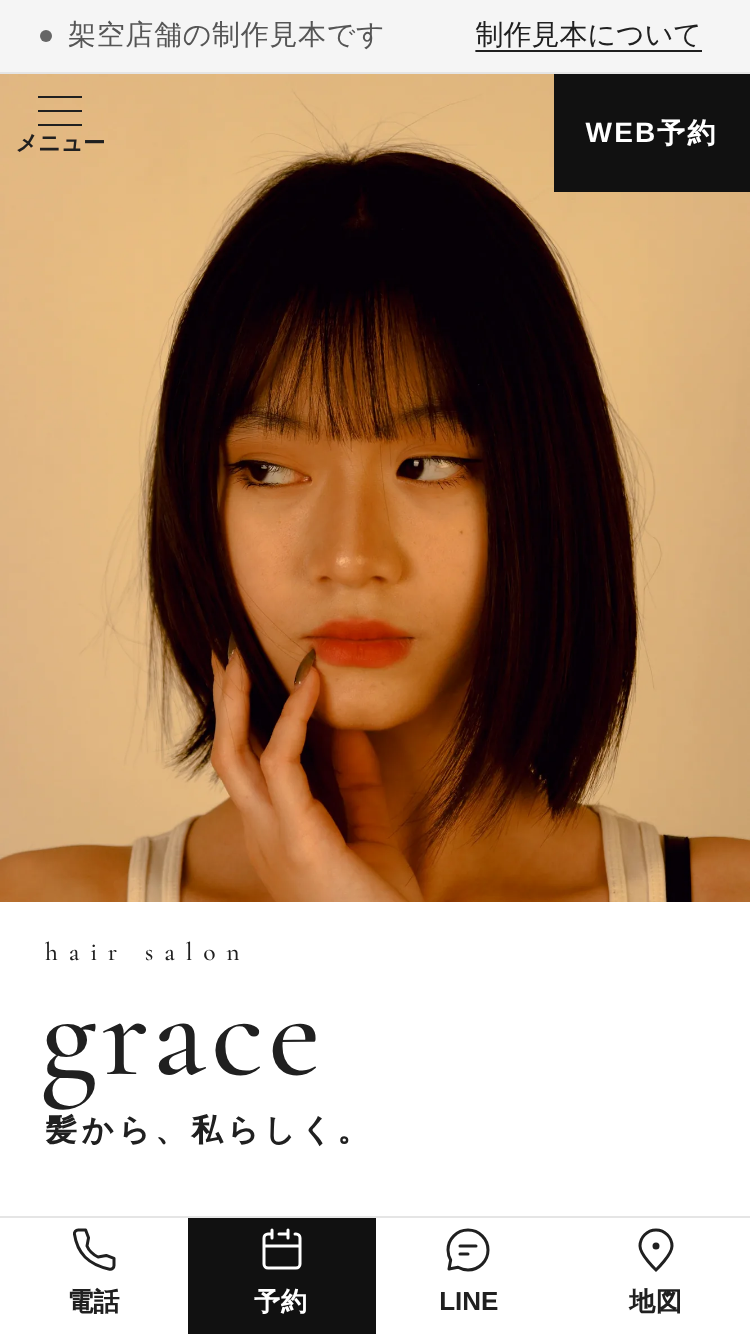
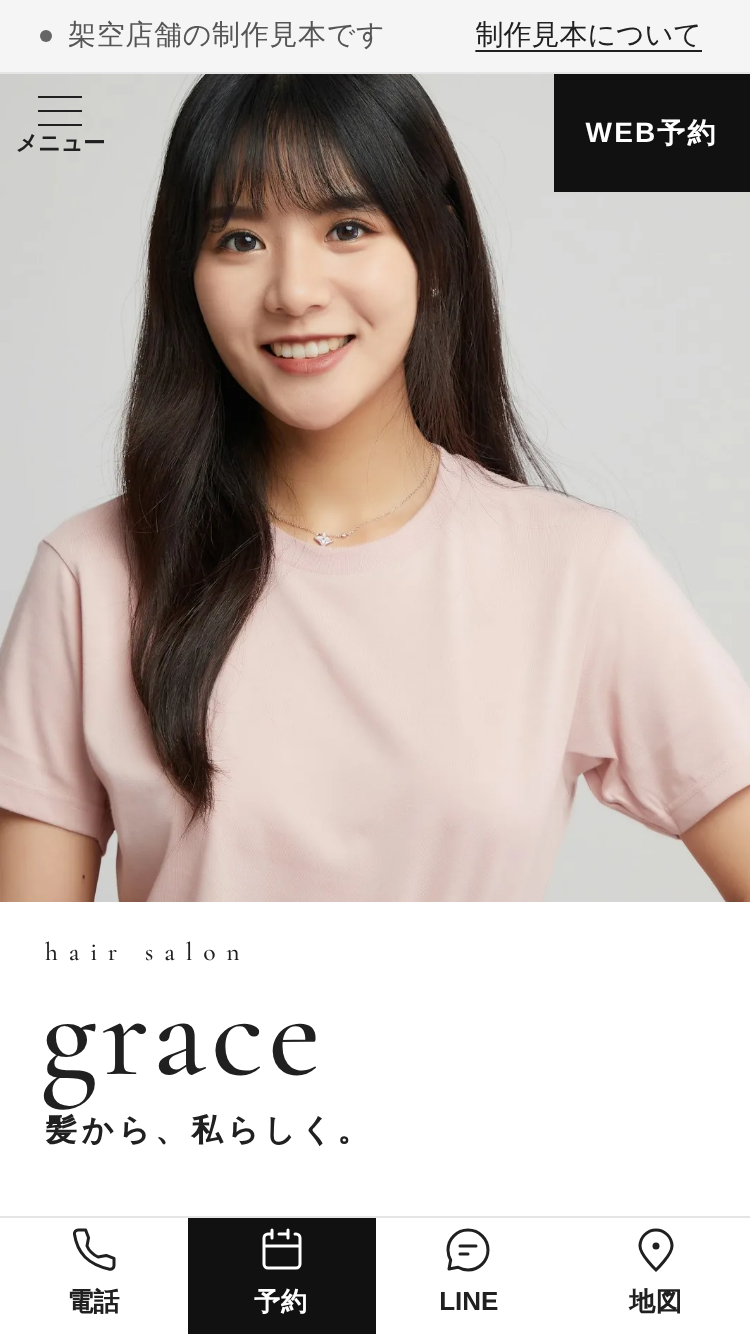
モデル写真を東アジア系女性のロングヘアのみに統一
- ショート・ボブ・ミディアム・メンズ・和装のまとめ髪の写真を外し、ロングヘアの Unsplash 写真（v5）に差し替え
- ヒーロー（PC：ストレートロング／スマホ：前髪ありロング）、PICK UP STYLE（後ろ姿ロング・グラデーションカラー・ブラウンロング）を更新
- カタログのカテゴリをストレート／ウェーブ・カール／レイヤー／ヘアカラー／ヘアアレンジに変更
- PCのヒーロー上のヘッダーに薄い白のグラデーションを敷き、髪に重なるナビを読みやすく
- CREDITS.md・README・CLAUDE.md・OGP画像・販促用スクリーンショットを更新

Claude-Session: https://claude.ai/code/session_01U6BrpBVGjCZbtm2Y6rXKjn

diff --git a/index.html b/index.html
@@ -6,8 +6,8 @@
     <meta name="description" content="美容室ホームページの制作見本です（架空店舗 hair salon grace）。モデル写真とヘアカタログで髪型・髪色の魅力を伝え、料金シミュレーター、スタイリスト指名からの予約、店側の予約管理画面まで体験できます。" />
     <meta property="og:title" content="【制作見本】hair salon grace｜美容室ホームページの見本" />
     <meta property="og:description" content="モデル写真とヘアカタログが主役の、白を基調にした美容室ホームページの制作見本（架空店舗）。料金シミュレーター・指名予約・予約管理まで体験できます。" />
-    <link rel="preload" as="image" href="/images/v4/hero-pc-short-bob-side-part.webp" imagesrcset="/images/v4/hero-pc-short-bob-side-part-sm.webp 800w, /images/v4/hero-pc-short-bob-side-part.webp 2000w" imagesizes="100vw" media="(min-width: 960px)" fetchpriority="high" />
-    <link rel="preload" as="image" href="/images/v4/hero-sp-bob-blunt-fringe.webp" imagesrcset="/images/v4/hero-sp-bob-blunt-fringe-sm.webp 533w, /images/v4/hero-sp-bob-blunt-fringe.webp 1333w" imagesizes="100vw" media="(max-width: 959px)" fetchpriority="high" />
+    <link rel="preload" as="image" href="/images/v5/hero-pc-long-straight-black.webp" imagesrcset="/images/v5/hero-pc-long-straight-black-sm.webp 800w, /images/v5/hero-pc-long-straight-black.webp 2000w" imagesizes="100vw" media="(min-width: 960px)" fetchpriority="high" />
+    <link rel="preload" as="image" href="/images/v5/hero-sp-long-bangs.webp" imagesrcset="/images/v5/hero-sp-long-bangs-sm.webp 532w, /images/v5/hero-sp-long-bangs.webp 1065w" imagesizes="100vw" media="(max-width: 959px)" fetchpriority="high" />
   </head>
   <body class="page-home">
     <a class="skip-link" href="#main">本文へ移動</a>
@@ -18,8 +18,8 @@
       <!-- 1. ヒーロー：画面いっぱいのモデル写真にブランド名を重ねる -->
       <section class="hero" aria-label="hair salon grace" data-hero>
         <picture class="hero-photo">
-          <source media="(max-width: 959px)" srcset="/images/v4/hero-sp-bob-blunt-fringe-sm.webp 533w, /images/v4/hero-sp-bob-blunt-fringe.webp 1333w" sizes="100vw" width="1333" height="2000" />
-          <img src="/images/v4/hero-pc-short-bob-side-part.webp" srcset="/images/v4/hero-pc-short-bob-side-part-sm.webp 800w, /images/v4/hero-pc-short-bob-side-part.webp 2000w" sizes="100vw" width="2000" height="1138" alt="黒髪のショートボブの女性の横顔寄りのポートレート（スタイルイメージ）" fetchpriority="high" />
+          <source media="(max-width: 959px)" srcset="/images/v5/hero-sp-long-bangs-sm.webp 532w, /images/v5/hero-sp-long-bangs.webp 1065w" sizes="100vw" width="1065" height="1600" />
+          <img src="/images/v5/hero-pc-long-straight-black.webp" srcset="/images/v5/hero-pc-long-straight-black-sm.webp 800w, /images/v5/hero-pc-long-straight-black.webp 2000w" sizes="100vw" width="2000" height="1333" alt="胸下まであるダークブラウンのストレートロングの女性（スタイルイメージ）" fetchpriority="high" />
         </picture>
         <div class="hero-brand">
           <p class="hero-logo"><span class="sub">hair salon</span> <span class="main">grace</span></p>
@@ -46,9 +46,9 @@
           </div>
           <ul class="catalog-grid">
             <li>
-              <a class="cat-tile" href="#style-list" data-cat-link="long" aria-label="ロングのスタイル一覧を見る">
+              <a class="cat-tile" href="#style-list" data-cat-link="wave" aria-label="ウェーブ・カールのスタイル一覧を見る">
                 <img src="/images/v4/cat-long-dark-waves-sm.webp" srcset="/images/v4/cat-long-dark-waves-sm.webp 528w, /images/v4/cat-long-dark-waves.webp 923w" sizes="(min-width: 900px) 36vw, 100vw" width="923" height="1400" alt="ウェーブのかかった黒髪ロングの女性の横顔" style="object-position:45% 30%" loading="lazy" decoding="async" />
-                <span class="cat-label" aria-hidden="true"><span class="en">LONG</span><span class="ja">ロング</span></span>
+                <span class="cat-label" aria-hidden="true"><span class="en">WAVE・CURL</span><span class="ja">ウェーブ・カール</span></span>
               </a>
             </li>
             <li>
@@ -58,20 +58,20 @@
               </a>
             </li>
             <li>
-              <a class="cat-tile" href="#style-list" data-cat-link="bob_medium" aria-label="ボブ・ミディアムのスタイル一覧を見る">
-                <img src="/images/v4/pick-bob-sleek-black-sm.webp" srcset="/images/v4/pick-bob-sleek-black-sm.webp 600w, /images/v4/pick-bob-sleek-black.webp 1050w" sizes="(min-width: 900px) 26vw, 50vw" width="1050" height="1400" alt="黒髪のワンレンボブの女性のポートレート" style="object-position:45% 30%" loading="lazy" decoding="async" />
-                <span class="cat-label" aria-hidden="true"><span class="en">BOB・MEDIUM</span><span class="ja">ボブ・ミディアム</span></span>
+              <a class="cat-tile" href="#style-list" data-cat-link="straight" aria-label="ストレートのスタイル一覧を見る">
+                <img src="/images/v5/cat-straight-long-black-sm.webp" srcset="/images/v5/cat-straight-long-black-sm.webp 533w, /images/v5/cat-straight-long-black.webp 934w" sizes="(min-width: 900px) 26vw, 50vw" width="934" height="1400" alt="胸下までの黒髪ストレートロングの女性" style="object-position:50% 25%" loading="lazy" decoding="async" />
+                <span class="cat-label" aria-hidden="true"><span class="en">STRAIGHT</span><span class="ja">ストレート</span></span>
               </a>
             </li>
             <li>
-              <a class="cat-tile" href="#style-list" data-cat-link="short" aria-label="ショートのスタイル一覧を見る">
-                <img src="/images/v4/cat-short-mens-mash-sm.webp" srcset="/images/v4/cat-short-mens-mash-sm.webp 800w, /images/v4/cat-short-mens-mash.webp 1400w" sizes="(min-width: 900px) 26vw, 50vw" width="1400" height="933" alt="白い背景の前の、マッシュショートの男性のポートレート" style="object-position:62% 35%" loading="lazy" decoding="async" />
-                <span class="cat-label" aria-hidden="true"><span class="en">SHORT</span><span class="ja">ショート</span></span>
+              <a class="cat-tile" href="#style-list" data-cat-link="layer" aria-label="レイヤーのスタイル一覧を見る">
+                <img src="/images/v4/pick-layer-face-framing-long-sm.webp" srcset="/images/v4/pick-layer-face-framing-long-sm.webp 533w, /images/v4/pick-layer-face-framing-long.webp 933w" sizes="(min-width: 900px) 26vw, 50vw" width="933" height="1400" alt="顔まわりに毛束がかかる黒髪ロングの女性" style="object-position:55% 30%" loading="lazy" decoding="async" />
+                <span class="cat-label" aria-hidden="true"><span class="en">LAYER</span><span class="ja">レイヤー</span></span>
               </a>
             </li>
             <li>
               <a class="cat-tile" href="#style-list" data-cat-link="arrange" aria-label="ヘアアレンジのスタイル一覧を見る">
-                <img src="/images/v4/cat-arrange-kanzashi-updo-sm.webp" srcset="/images/v4/cat-arrange-kanzashi-updo-sm.webp 599w, /images/v4/cat-arrange-kanzashi-updo.webp 1049w" sizes="(min-width: 900px) 26vw, 50vw" width="1049" height="1400" alt="花の髪飾りをつけたまとめ髪の後ろ姿" style="object-position:50% 30%" loading="lazy" decoding="async" />
+                <img src="/images/v5/cat-arrange-long-braid-sm.webp" srcset="/images/v5/cat-arrange-long-braid-sm.webp 533w, /images/v5/cat-arrange-long-braid.webp 933w" sizes="(min-width: 900px) 26vw, 50vw" width="933" height="1400" alt="ロングヘアを三つ編みにしてリボンを添えた女性の横向きの姿" style="object-position:45% 30%" loading="lazy" decoding="async" />
                 <span class="cat-label" aria-hidden="true"><span class="en">ARRANGE</span><span class="ja">ヘアアレンジ</span></span>
               </a>
             </li>
@@ -102,22 +102,22 @@
           </div>
           <ol class="pickup-list">
             <li>
-              <figure class="photo"><img src="/images/v4/pick-layer-face-framing-long-sm.webp" srcset="/images/v4/pick-layer-face-framing-long-sm.webp 533w, /images/v4/pick-layer-face-framing-long.webp 933w" sizes="(min-width: 900px) 30vw, 92vw" width="933" height="1400" alt="顔まわりに毛束がかかる黒髪ロングの女性" style="object-position:55% 30%" loading="lazy" decoding="async" /></figure>
+              <figure class="photo"><img src="/images/v5/pick-back-long-straight-sm.webp" srcset="/images/v5/pick-back-long-straight-sm.webp 533w, /images/v5/pick-back-long-straight.webp 933w" sizes="(min-width: 900px) 30vw, 92vw" width="933" height="1400" alt="背中まであるダークトーンのストレートロングの女性の後ろ姿" style="object-position:50% 30%" loading="lazy" decoding="async" /></figure>
               <span class="pickup-no">STYLE 01</span>
-              <h3>顔まわりを楽しむレイヤー</h3>
-              <p>長めの前髪から顔まわりに段差をつけたロング。頬にかかる毛束が、正面から見たときの印象をやわらげます。</p>
+              <h3>後ろ姿で見るストレートロング</h3>
+              <p>背中まで届く長さを、毛先まで揃えたストレートロング。後ろから見たときの長さとまとまりが分かるスタイルです。</p>
             </li>
             <li>
-              <figure class="photo"><img src="/images/v4/pick-color-brown-bob-sm.webp" srcset="/images/v4/pick-color-brown-bob-sm.webp 800w, /images/v4/pick-color-brown-bob.webp 1400w" sizes="(min-width: 900px) 30vw, 92vw" width="1400" height="1400" alt="ブラウン系のボブの女性のポートレート" style="object-position:50% 35%" loading="lazy" decoding="async" /></figure>
+              <figure class="photo"><img src="/images/v5/pick-color-gradation-long-sm.webp" srcset="/images/v5/pick-color-gradation-long-sm.webp 534w, /images/v5/pick-color-gradation-long.webp 935w" sizes="(min-width: 900px) 30vw, 92vw" width="935" height="1400" alt="毛先に向かって明るくなるブラウンのロングの女性" style="object-position:50% 40%" loading="lazy" decoding="async" /></figure>
               <span class="pickup-no">STYLE 02</span>
-              <h3>やわらかな色味のカラー</h3>
-              <p>根元から毛先に向かって明るくなるブラウン系の色味。あご下で揃えたボブなので、色の変化が分かりやすいスタイルです。</p>
+              <h3>毛先が明るいグラデーションカラー</h3>
+              <p>根元は暗めに、毛先に向かって明るくなるブラウン系の色味。伸びてきても色の境目が目立ちにくい入れ方です。</p>
             </li>
             <li>
-              <figure class="photo"><img src="/images/v4/cat-bob-wavy-medium-sm.webp" srcset="/images/v4/cat-bob-wavy-medium-sm.webp 600w, /images/v4/cat-bob-wavy-medium.webp 1051w" sizes="(min-width: 900px) 30vw, 92vw" width="1051" height="1400" alt="肩上のウェーブボブの女性のポートレート" style="object-position:50% 35%" loading="lazy" decoding="async" /></figure>
+              <figure class="photo"><img src="/images/v5/pick-color-brown-straight-long-sm.webp" srcset="/images/v5/pick-color-brown-straight-long-sm.webp 532w, /images/v5/pick-color-brown-straight-long.webp 932w" sizes="(min-width: 900px) 30vw, 92vw" width="932" height="1400" alt="ブラウンのストレートロングの女性" style="object-position:50% 30%" loading="lazy" decoding="async" /></figure>
               <span class="pickup-no">STYLE 03</span>
-              <h3>動きのある外ハネボブ</h3>
-              <p>肩上の長さに、ランダムなウェーブと外ハネの毛先。顔まわりの毛流れで、ラフな雰囲気に仕上げたボブです。</p>
+              <h3>ブラウンのストレートロング</h3>
+              <p>全体をやわらかなブラウンにしたストレートロング。顔まわりの毛束を残して、明るい色味を自然に見せます。</p>
             </li>
           </ol>
           <p class="note catalog-note">掲載写真は素材サイトのスタイルイメージです（当店の施術実績ではありません）。</p>

diff --git a/src/lib/gallery.ts b/src/lib/gallery.ts
@@ -3,14 +3,14 @@
  * 写真は素材サイトのスタイルイメージで、当店の施術実績・スタッフの作品ではない。
  * カテゴリは写真に実際に写っている髪型に合わせている（合わない写真をラベルに当てはめない）。
  */
-export type Category = 'long' | 'bob_medium' | 'short' | 'arrange' | 'color';
+export type Category = 'straight' | 'wave' | 'layer' | 'color' | 'arrange';
 
 export const CATEGORY_LABEL: Record<Category, { en: string; ja: string }> = {
-  long: { en: 'LONG', ja: 'ロング' },
-  bob_medium: { en: 'BOB・MEDIUM', ja: 'ボブ・ミディアム' },
-  short: { en: 'SHORT', ja: 'ショート' },
-  arrange: { en: 'ARRANGE', ja: 'ヘアアレンジ' },
+  straight: { en: 'STRAIGHT', ja: 'ストレート' },
+  wave: { en: 'WAVE・CURL', ja: 'ウェーブ・カール' },
+  layer: { en: 'LAYER', ja: 'レイヤー' },
   color: { en: 'COLOR', ja: 'ヘアカラー' },
+  arrange: { en: 'ARRANGE', ja: 'ヘアアレンジ' },
 };
 
 export interface StylePhoto {
@@ -29,14 +29,18 @@ export interface StylePhoto {
 export const catLabel = (s: StylePhoto) => s.cats.map((c) => CATEGORY_LABEL[c].ja).join('・');
 
 export const STYLES: StylePhoto[] = [
-  { file: 'v4/cat-long-dark-waves.webp', sm: 'v4/cat-long-dark-waves-sm.webp', w: 923, h: 1400, cats: ['long'], title: 'ゆるウェーブのロング', alt: 'ウェーブのかかった黒髪ロングの女性の横顔', pos: '45% 35%' },
-  { file: 'v4/extra-long-soft-curls.webp', sm: 'v4/extra-long-soft-curls-sm.webp', w: 933, h: 1400, cats: ['long'], title: 'カールのロング', alt: 'カールのかかった黒髪ロングの女性', pos: '50% 40%' },
-  { file: 'v4/cat-color-copper-brown-waves.webp', sm: 'v4/cat-color-copper-brown-waves-sm.webp', w: 1049, h: 1400, cats: ['color', 'long'], title: '明るいブラウンのロングウェーブ', alt: '明るいブラウンのウェーブロングの女性', pos: '50% 35%' },
-  { file: 'v4/pick-bob-sleek-black.webp', sm: 'v4/pick-bob-sleek-black-sm.webp', w: 1050, h: 1400, cats: ['bob_medium'], title: 'センターパートのワンレンボブ', alt: '黒髪のワンレンボブの女性のポートレート', pos: '45% 30%' },
-  { file: 'v2/bob-black-round.webp', sm: 'v2/bob-black-round-sm.webp', w: 889, h: 1200, cats: ['bob_medium'], title: '丸みのある黒髪ボブ', alt: '肩上の長さで毛先を内側に丸めた、黒髪のボブの横顔', pos: 'center' },
-  { file: 'v4/extra-medium-brown-waves.webp', sm: 'v4/extra-medium-brown-waves-sm.webp', w: 933, h: 1400, cats: ['bob_medium', 'color'], title: 'ブラウンのウェーブミディアム', alt: 'ブラウンのウェーブヘアの女性がうつむいているポートレート', pos: '50% 30%' },
-  { file: 'v4/hero-pc-short-bob-side-part.webp', sm: 'v4/hero-pc-short-bob-side-part-sm.webp', w: 2000, h: 1138, cats: ['short', 'bob_medium'], title: 'サイドパートのショートボブ', alt: '黒髪のショートボブの女性の横顔寄りのポートレート', pos: '42% 40%' },
-  { file: 'v4/cat-short-mens-mash.webp', sm: 'v4/cat-short-mens-mash-sm.webp', w: 1400, h: 933, cats: ['short'], title: 'メンズ マッシュショート', alt: '白い背景の前の、マッシュショートの男性のポートレート', pos: '62% 35%' },
-  { file: 'v4/extra-short-mens-center-part.webp', sm: 'v4/extra-short-mens-center-part-sm.webp', w: 1045, h: 1400, cats: ['short'], title: 'メンズ センターパートショート', alt: '白い背景の前に立つ、センターパートの短髪の男性', pos: '50% 15%' },
-  { file: 'v4/cat-arrange-kanzashi-updo.webp', sm: 'v4/cat-arrange-kanzashi-updo-sm.webp', w: 1049, h: 1400, cats: ['arrange'], title: '髪飾りをあしらったまとめ髪', alt: '花の髪飾りをつけたまとめ髪の後ろ姿', pos: '50% 35%' },
+  { file: 'v4/cat-long-dark-waves.webp', sm: 'v4/cat-long-dark-waves-sm.webp', w: 923, h: 1400, cats: ['wave'], title: 'ゆるウェーブの黒髪ロング', alt: 'ウェーブのかかった黒髪ロングの女性の横顔', pos: '45% 35%' },
+  { file: 'v5/cat-straight-long-black.webp', sm: 'v5/cat-straight-long-black-sm.webp', w: 934, h: 1400, cats: ['straight'], title: 'ツヤのある黒髪ストレート', alt: '胸下までの黒髪ストレートロングの女性', pos: '50% 30%' },
+  { file: 'v5/pick-back-long-straight.webp', sm: 'v5/pick-back-long-straight-sm.webp', w: 933, h: 1400, cats: ['straight'], title: '後ろ姿で見るストレートロング', alt: '背中まであるダークトーンのストレートロングの女性の後ろ姿', pos: '50% 30%' },
+  { file: 'v5/hero-pc-long-straight-black.webp', sm: 'v5/hero-pc-long-straight-black-sm.webp', w: 2000, h: 1333, cats: ['straight'], title: 'センターパートのロング', alt: '胸下まであるダークブラウンのストレートロングの女性', pos: '62% 40%' },
+  { file: 'v5/hero-sp-long-bangs.webp', sm: 'v5/hero-sp-long-bangs-sm.webp', w: 1065, h: 1600, cats: ['straight', 'layer'], title: '前髪ありのストレートロング', alt: '前髪のある黒髪ストレートロングの女性', pos: '50% 25%' },
+  { file: 'v4/pick-layer-face-framing-long.webp', sm: 'v4/pick-layer-face-framing-long-sm.webp', w: 933, h: 1400, cats: ['layer'], title: '顔まわりレイヤーのロング', alt: '顔まわりに毛束がかかる黒髪ロングの女性', pos: '55% 30%' },
+  { file: 'v4/extra-long-soft-curls.webp', sm: 'v4/extra-long-soft-curls-sm.webp', w: 933, h: 1400, cats: ['wave'], title: '毛先カールのロング', alt: 'カールのかかった黒髪ロングの女性', pos: '50% 40%' },
+  { file: 'v4/cat-color-copper-brown-waves.webp', sm: 'v4/cat-color-copper-brown-waves-sm.webp', w: 1049, h: 1400, cats: ['color', 'wave'], title: '明るいブラウンのロングウェーブ', alt: '明るいブラウンのウェーブロングの女性', pos: '50% 35%' },
+  { file: 'v5/extra-color-copper-curl-long.webp', sm: 'v5/extra-color-copper-curl-long-sm.webp', w: 934, h: 1400, cats: ['color', 'wave'], title: 'カッパーブラウンの巻きロング', alt: '赤みのあるブラウンの巻き髪ロングの女性', pos: '50% 30%' },
+  { file: 'v5/pick-color-brown-straight-long.webp', sm: 'v5/pick-color-brown-straight-long-sm.webp', w: 932, h: 1400, cats: ['color', 'straight'], title: 'ブラウンのストレートロング', alt: 'ブラウンのストレートロングの女性', pos: '50% 30%' },
+  { file: 'v5/pick-color-gradation-long.webp', sm: 'v5/pick-color-gradation-long-sm.webp', w: 935, h: 1400, cats: ['color'], title: '毛先が明るいグラデーションカラー', alt: '毛先に向かって明るくなるブラウンのロングの女性', pos: '50% 45%' },
+  { file: 'v5/extra-straight-long-smile.webp', sm: 'v5/extra-straight-long-smile-sm.webp', w: 933, h: 1400, cats: ['straight'], title: '毛先までまっすぐなロング', alt: '胸下までの黒髪ストレートロングの女性が微笑んでいる', pos: '50% 30%' },
+  { file: 'v5/cat-arrange-long-braid.webp', sm: 'v5/cat-arrange-long-braid-sm.webp', w: 933, h: 1400, cats: ['arrange'], title: 'リボンを添えたロングの三つ編み', alt: 'ロングヘアを三つ編みにしてリボンを添えた女性の横向きの姿', pos: '45% 35%' },
+  { file: 'v5/extra-arrange-ponytail-back.webp', sm: 'v5/extra-arrange-ponytail-back-sm.webp', w: 1050, h: 1400, cats: ['arrange'], title: '後ろ姿のポニーテール', alt: '黒髪ロングを後ろでひとつに結んだ女性の後ろ姿', pos: '40% 40%' },
 ];

diff --git a/src/styles/home.css b/src/styles/home.css
@@ -136,6 +136,17 @@
 .page-home .site-header.is-overlay {
   color: var(--text);
 }
+/* PC：ナビが髪の上に重なっても読めるよう、ヘッダーの高さだけ薄い白のグラデーションを敷く（写真全体は暗くしない） */
+@media (min-width: 960px) {
+  .page-home .site-header.is-overlay::before {
+    content: '';
+    position: absolute;
+    inset: 0 0 -48px;
+    z-index: -1;
+    background: linear-gradient(rgba(255, 255, 255, 0.8), rgba(255, 255, 255, 0.5) 55%, rgba(255, 255, 255, 0));
+    pointer-events: none;
+  }
+}
 .is-overlay .logo,
 .is-overlay .global-nav > ul a {
   text-shadow: none;

diff --git a/CREDITS.md b/CREDITS.md
@@ -12,26 +12,27 @@
   - 髪型の輪郭・毛先・髪色が分かり、髪にピントが合っていること
   - モデルの正面・斜め・横顔も使用（前髪・顔まわり・毛先・髪色が分かる構図）。モデルを架空スタッフとして紹介しない
   - 実在店舗の看板・店名・ロゴが写っていないこと（`interior-chair-900.webp` は鏡台上の販促物2か所をぼかし処理）
-- 加工：WebP 変換・リサイズ・トリミングのみ（髪色の加工はしていない）。`v4/*.webp` は長辺1400〜2000px、`v4/*-sm.webp` は長辺800px、`v2/*-sm.webp` は長辺720px（スマホ・一覧用）。`public/og.jpg` は `v4/hero-pc-short-bob-side-part` を切り抜き、欧文ロゴと「髪から、私らしく。」を重ねたもの
+- 加工：WebP 変換・リサイズ・トリミングのみ（髪色の加工はしていない）。`v4`・`v5` の `*.webp` は長辺1400〜2000px、`*-sm.webp` は長辺800px（スマホ・一覧用）。`public/og.jpg` は `v5/hero-pc-long-straight-black` を切り抜き、欧文ロゴと「髪から、私らしく。」を重ねたもの
 - 掲載写真はスタイルのイメージで、当店（架空）の施術実績・スタッフの作品ではありません
-- **日本人モデルについて（2026-10-22）**：依頼により、外国人モデルの写真を東アジア系のモデル写真に差し替えました。Unsplash で撮影地・タグなどから日本で撮影された／日本人と確認できたのは下表の「日本との関連」欄に記載がある3点（メンズ2点・まとめ髪）のみで、女性モデルのほとんどは**国籍・撮影地の記載がなく、外見から選んだもの**です。「日本人モデル」とは表記していません
+- **モデルについて（2026-10-22）**：依頼により、モデルは**東アジア系の女性・ロングヘアのみ**にしています（ショート・ボブ・肩までのミディアム・メンズの写真は使っていません）。掲載写真のモデルは、写真ページに国籍・撮影地の記載がなく**外見から選んだもの**で、「日本人モデル」とは表記していません
+- Unsplash の検索は「無料（Free）」のライセンスに絞って行いました
 
 | ファイル | 内容 | 撮影者 | 元ページ | 日本との関連 | 使用箇所 |
 |---|---|---|---|---|---|
-| `v4/hero-pc-short-bob-side-part.webp`（＋`-sm`） | 深めのサイドパートから耳にかけたショートボブ。黒髪のツヤと、あご下で内側に収まる丸みのあるシルエットが分かります。 | Jk Imperial | <https://unsplash.com/photos/a-woman-with-black-hair-is-looking-at-the-camera--opOVG_Z4jA> | 記載なし（外見のみで判断） | ヒーロー（PC）・OGP画像・スタイル一覧 |
-| `v4/hero-sp-bob-blunt-fringe.webp`（＋`-sm`） | 目にかかる長さの前髪と、あごより下で揃えた切りっぱなしのボブ。黒髪の直線的な毛先が分かります。 | Zhanna Rinatova | <https://unsplash.com/photos/a-woman-with-a-short-hair-and-a-white-tank-top-KvPz2Jv_SZ0> | 記載なし（外見のみで判断） | ヒーロー（スマホ） |
-| `v4/cat-long-dark-waves.webp`（＋`-sm`） | 腰に届く長さの黒髪に、全体にゆるいウェーブ。横顔から毛先までの長さと動きが分かります。 | Silas Hao | <https://unsplash.com/photos/woman-with-red-lipstick-and-black-hair-TWEoISk5WoI> | 記載なし（外見のみで判断） | HAIR CATALOG（大・LONG）・スタイル一覧 |
-| `v4/cat-bob-wavy-medium.webp`（＋`-sm`） | 肩上の長さのボブに、ランダムなウェーブと外ハネの毛先。顔まわりの毛流れが分かります。 | ling hua | <https://unsplash.com/photos/a-woman-with-a-scarf-around-her-neck-CWxahMbXlfs> | 記載なし（外見のみで判断） | PICK UP STYLE 03 |
-| `v4/cat-short-mens-mash.webp`（＋`-sm`） | 眉にかかる前髪と、毛先に動きのある丸みのあるマッシュショート。白背景でシルエットが分かります。 | Takashi Miyazaki | <https://unsplash.com/photos/man-in-white-crew-neck-shirt-iCvqnJgMchs> | タグ japanese 等 | HAIR CATALOG（SHORT）・スタイル一覧 |
-| `v4/cat-arrange-kanzashi-updo.webp`（＋`-sm`） | 後頭部の低い位置にまとめたアップスタイルに、花の髪飾りを添えたもの。後ろ姿でまとめ方と飾りの配置が分かります。 | Genri Kura | <https://unsplash.com/photos/a-woman-with-a-flower-in-her-hair-3ow9GhfwysU> | 撮影地 Japan・タグ japan | HAIR CATALOG（ARRANGE）・スタイル一覧 |
-| `v4/cat-color-copper-brown-waves.webp`（＋`-sm`） | 赤みのある明るいブラウンの髪色に、胸下までのゆるいウェーブ。逆光で毛先まで色味が分かります。 | Tan Duong | <https://unsplash.com/photos/woman-with-long-hair-at-waterfront-0ZOb8d31yNY> | 記載なし（外見のみで判断） | HAIR CATALOG（COLOR）・スタイル一覧 |
-| `v4/pick-layer-face-framing-long.webp`（＋`-sm`） | 長めの前髪から顔まわりに段差をつけたロング。頬にかかる毛束と、胸下までの毛先が分かります。 | Yunming Wang | <https://unsplash.com/photos/a-woman-with-long-black-hair-standing-in-front-of-a-building-G9f4Enb8XVM> | 記載なし（外見のみで判断） | PICK UP STYLE 01 |
-| `v4/pick-color-brown-bob.webp`（＋`-sm`） | 根元から毛先に向かって明るくなるブラウン系の色味のボブ。あご下で揃えた毛先と前下がりの形が分かります。 | Phong Duong | <https://unsplash.com/photos/woman-with-bob-haircut-and-lipstick-x4NP8d2-shs> | 記載なし（外見のみで判断） | PICK UP STYLE 02 |
-| `v4/pick-bob-sleek-black.webp`（＋`-sm`） | センターパートで、あご下に揃えたワンレングスのボブ。毛先の直線とストレートな質感が分かります。 | Ilyas Bolatov | <https://unsplash.com/photos/woman-wearing-black-top-6ZW7hRz7DE0> | 記載なし（外見のみで判断） | HAIR CATALOG（BOB・MEDIUM）・スタイル一覧 |
-| `v4/extra-long-soft-curls.webp`（＋`-sm`） | 胸下まであるロングに、中間から毛先にかけて大きめのカール。毛先の動きが分かります。 | Vivian K | <https://unsplash.com/photos/a-woman-with-long-hair-Hmqj7JOXJvE> | 記載なし（外見のみで判断） | スタイル一覧 |
-| `v4/extra-medium-brown-waves.webp`（＋`-sm`） | 肩につく長さのブラウンの髪に、全体のウェーブ。うつむき加減で毛先の動きが分かります。 | 光术 山影 | <https://unsplash.com/photos/young-woman-with-short-hair-in-a-white-dress-outdoors-uA04tMbRNOk> | 記載なし（外見のみで判断） | スタイル一覧 |
-| `v4/extra-short-mens-center-part.webp`（＋`-sm`） | 眉下の長さの前髪をセンターで分けたメンズショート。白背景で全体の形が分かります。 | 花見 瀬田 (Hanami Seta) | <https://unsplash.com/photos/a-man-standing-in-front-of-a-white-background-_q1F356xF48> | 撮影地 Japan・タグ japan | スタイル一覧 |
-| `v2/bob-black-round.webp`（＋`-sm`） | 生成り色の背景で、うつむき加減の横顔と黒髪の丸みのあるボブ。毛先はゆるく内巻き | Suhyeon Choi | <https://unsplash.com/photos/woman-looking-down-VfOw1B-y_rQ> | 記載なし（外見のみで判断） | スタイル一覧 |
+| `v5/hero-pc-long-straight-black.webp`（＋`-sm`） | 明るくぼけた緑の背景の前で、胸下までのダークブラウンのストレートロングの女性が正面を向いている | Thanh Duc PHAN | <https://unsplash.com/photos/i5R8hbZFDdc> | 記載なし（外見のみで判断） | ヒーロー（PC）・OGP画像・スタイル一覧 |
+| `v5/hero-sp-long-bangs.webp`（＋`-sm`） | グレーの無地背景のスタジオで、前髪ありの黒髪ストレートロングの女性が微笑んでいる（中央を縦長に切り抜き） | Dynamic Wang | <https://unsplash.com/photos/_JAAQZ2wt5I> | 記載なし（外見のみで判断） | ヒーロー（スマホ）・スタイル一覧 |
+| `v4/cat-long-dark-waves.webp`（＋`-sm`） | 腰に届く長さの黒髪に全体のゆるいウェーブ。横顔から毛先まで分かる | Silas Hao | <https://unsplash.com/photos/woman-with-red-lipstick-and-black-hair-TWEoISk5WoI> | 記載なし（外見のみで判断） | HAIR CATALOG（大・WAVE・CURL）・スタイル一覧 |
+| `v4/cat-color-copper-brown-waves.webp`（＋`-sm`） | 赤みのある明るいブラウンの髪色に、胸下までのゆるいウェーブ | Tan Duong | <https://unsplash.com/photos/woman-with-long-hair-at-waterfront-0ZOb8d31yNY> | 記載なし（外見のみで判断） | HAIR CATALOG（COLOR）・スタイル一覧 |
+| `v5/cat-straight-long-black.webp`（＋`-sm`） | 木漏れ日の緑を背景に、胸下までの黒髪ストレートロングの女性 | Chalaphan Mathong | <https://unsplash.com/photos/dksfrmujnDg> | 記載なし（外見のみで判断） | HAIR CATALOG（STRAIGHT）・スタイル一覧 |
+| `v4/pick-layer-face-framing-long.webp`（＋`-sm`） | 長めの前髪から顔まわりに段差をつけたロング | Yunming Wang | <https://unsplash.com/photos/a-woman-with-long-black-hair-standing-in-front-of-a-building-G9f4Enb8XVM> | 記載なし（外見のみで判断） | HAIR CATALOG（LAYER）・スタイル一覧 |
+| `v5/cat-arrange-long-braid.webp`（＋`-sm`） | 水辺の緑を背景に、ロングヘアを三つ編みにして白いリボンを添えた女性の横向きの姿 | Elist Nguyen | <https://unsplash.com/photos/KNQRMbSxrQs> | 記載なし（外見のみで判断） | HAIR CATALOG（ARRANGE）・スタイル一覧 |
+| `v5/pick-back-long-straight.webp`（＋`-sm`） | ぼけた街の灯りを背景に、背中まであるダークトーンのストレートロングの女性の後ろ姿 | Wang Sheeran | <https://unsplash.com/photos/k7_T7nyaC0w> | 記載なし（外見のみで判断） | PICK UP STYLE 01・スタイル一覧 |
+| `v5/pick-color-gradation-long.webp`（＋`-sm`） | 根元は暗く、毛先に向かって明るくなるブラウンのロング | Adi Probo | <https://unsplash.com/photos/qMclM6hzlCI> | 記載なし（外見のみで判断） | PICK UP STYLE 02・スタイル一覧 |
+| `v5/pick-color-brown-straight-long.webp`（＋`-sm`） | やわらかなブラウンのストレートロングの女性 | Thương Đặng | <https://unsplash.com/photos/YVCZXoRh86o> | 記載なし（外見のみで判断） | PICK UP STYLE 03・スタイル一覧 |
+| `v4/extra-long-soft-curls.webp`（＋`-sm`） | 胸下まであるロングに、中間から毛先にかけて大きめのカール | Vivian K | <https://unsplash.com/photos/a-woman-with-long-hair-Hmqj7JOXJvE> | 記載なし（外見のみで判断） | スタイル一覧 |
+| `v5/extra-color-copper-curl-long.webp`（＋`-sm`） | 水辺で、赤みのあるブラウンの巻き髪ロングの女性 | Tan Duong | <https://unsplash.com/photos/hBViUpdlC9g> | 記載なし（外見のみで判断） | スタイル一覧 |
+| `v5/extra-straight-long-smile.webp`（＋`-sm`） | 緑を背景に、胸下までの黒髪ストレートロングの女性が微笑んでいる | Chalaphan Mathong | <https://unsplash.com/photos/FJ2QW7Mx2sE> | 記載なし（外見のみで判断） | スタイル一覧 |
+| `v5/extra-arrange-ponytail-back.webp`（＋`-sm`） | 緑の壁を背景に、黒髪ロングを後ろでひとつに結んだ女性の後ろ姿（人物を中心に縦長に切り抜き） | Maccy | <https://unsplash.com/photos/nbl0AArhRow> | 記載なし（外見のみで判断） | スタイル一覧 |
 | `interior-chair-900.webp` | 木目の鏡台と楕円ミラー前のスタイリングチェア（縦構図、人物なし） | Tile Merchant Ireland | <https://unsplash.com/photos/a-hair-salon-with-chairs-and-mirrors-DUvovc88OfE> | ― | SALON（店内） |
 | `interior-shampoo-900.webp` | 白いシャンプーボウルと黒いシャンプー台が並ぶモノクロ写真（人物なし） | Giorgio Trovato | <https://unsplash.com/photos/a-row-of-black-and-white-chairs-next-to-a-sink-k5xtu6DApUk> | ― | SALON（店内） |
 
@@ -50,7 +51,8 @@
 
 - 2回目のデザインで外したもの：カーテン・植物・タオル・小物の写真、屋外の後ろ姿、髪がぶれた写真、強い色の写真、施術途中の手元
 - 3回目（モデル写真主体）で外したもの：前回の後ろ姿中心のスタイル写真
-- 今回（東アジア系モデルへの差し替え）で外したもの：`v3/*`（欧米系モデル11点）と `v2` の4点（インナーカラーボブ・カールショート・ブロンドのアップ・仕上げ中の後ろ姿）
+- 東アジア系モデルへの差し替えで外したもの：`v3/*`（欧米系モデル11点）と `v2/*`
+- ロングヘアのみにした際に外したもの：ショートボブ・前髪ありボブ・ワンレンボブ・ウェーブボブ・ブラウンのボブ・肩までのミディアム・メンズショート2点・和装のまとめ髪（髪の長さが分からないため）
 
 ## アイコン
 

diff --git a/CLAUDE.md b/CLAUDE.md
@@ -16,8 +16,8 @@
 | 配色 | 白基調。背景 `#FFFFFF`／補助 `#F5F5F5`／文字 `#202020`／補助文字 `#666666`／境界線 `#E5E5E5`／主なボタンは黒の長方形＋白文字。写真の色は加工せず残す。トークンは `src/styles/base.css` の `:root` |
 | 書体 | 日本語は端末標準のゴシック体。セクション見出しは大きな欧文セリフ（Cormorant Garamond）＋小さな日本語（例：HAIR CATALOG／ヘアカタログ） |
 | 形 | 写真は長方形。角丸は小さく（2〜4px）、影は最小限。アーチ型のマスクは使わない |
-| 写真 | **モデル写真が主役**（Unsplash の実写のみ。AI生成・Unsplash+ 不使用）。**モデルは日本人・東アジア系**（2026-10-22 依頼。国籍の記載がない写真は「日本人モデル」と表記しない）。GIRLY DROP は美容院でのヘア写真利用を控えるよう規約にあるため使わない。HPB・実在サロンの写真は使わない。正面・斜め・横顔も可。髪型・前髪・毛先・髪色が分かるものだけ。モデルを架空スタッフとして紹介しない。カーテン・植物・タオル・小物を主役にしない。出典は `CREDITS.md` |
-| ページ順 | ヒーロー → HAIR CATALOG（大1＋小4のカタログ＋カテゴリで絞り込めるスタイル一覧） → PICK UP STYLE → MENU & PRICE → 料金シミュレーター → STYLIST → SALON → 初めての方へ・FAQ → ACCESS → 予約案内・フッター |
+| 写真 | **モデル写真が主役**（Unsplash の実写のみ。AI生成・Unsplash+ 不使用）。**モデルは東アジア系の女性・ロングヘアのみ**（2026-10-22 依頼。ショート・ボブ・ミディアム・メンズは使わない。国籍の記載がない写真は「日本人モデル」と表記しない）。GIRLY DROP は美容院でのヘア写真利用を控えるよう規約にあるため使わない。HPB・実在サロンの写真は使わない。正面・斜め・横顔も可。髪型・前髪・毛先・髪色が分かるものだけ。モデルを架空スタッフとして紹介しない。カーテン・植物・タオル・小物を主役にしない。出典は `CREDITS.md` |
+| ページ順 | ヒーロー → HAIR CATALOG（大1＋小4のカタログ＋カテゴリで絞り込めるスタイル一覧。カテゴリはストレート／ウェーブ・カール／レイヤー／ヘアカラー／ヘアアレンジ） → PICK UP STYLE → MENU & PRICE → 料金シミュレーター → STYLIST → SALON → 初めての方へ・FAQ → ACCESS → 予約案内・フッター |
 | ヒーロー | 画面いっぱいのモデル写真1枚に「hair salon / grace / 髪から、私らしく。」だけを重ねる。文字は目元・前髪・髪の輪郭を避けて配置し、全面の濃いオーバーレイは使わない。ヘッダーはヒーロー上だけ透明・白文字（高さは一定）。スマホは約70svhでスマホ用の構図。スライドショー・オープニングなし |
 | 演出 | 写真が最初から見えることを優先。オープニング・曇り・葉の影・見出しマスクは廃止。ホバーの軽い拡大とギャラリー絞り込みの FLIP（GSAP Flip を遅延読み込み）のみ |
 | 保存 | `src/lib/store.ts` に集約（localStorage のデモモード）。保存キーの接頭辞 `nagi-demo:` は画面に出ないため旧名のまま（初期化範囲を変えないため）。予約データのキーは `reservations-v2` |

diff --git a/README.md b/README.md
@@ -2,7 +2,7 @@
 
 > **これは制作見本です。** 店舗・スタッフ・予約はすべて架空です。実際の予約・送信・通知は行われません。
 
-ミツモア・くらしのマーケット等で「ホームページ作成」をご検討中の美容室オーナー様に、完成イメージを体験していただくための見本サイトです。画面いっぱいのモデル写真とヘアカタログで、髪型・髪色の魅力を伝えるデザインです（美容室グループサイトの写真主体の見せ方を参考にし、写真・ロゴ・文章は独自に用意）。
+ミツモア・くらしのマーケット等で「ホームページ作成」をご検討中の美容室オーナー様に、完成イメージを体験していただくための見本サイトです。画面いっぱいのモデル写真とヘアカタログで、髪型・髪色の魅力を伝えるデザインです。モデル写真は東アジア系の女性のロングヘアに統一しています（美容室グループサイトの写真主体の見せ方を参考にし、写真・ロゴ・文章は独自に用意）。
 
 - 公開URL：<https://salon-site-nagi.vercel.app/>
   - トップ：`/`　予約体験：`/reserve/`　店側の予約管理：`/admin/`
@@ -14,7 +14,7 @@
 2. **スタッフ紹介から指名予約** — 担当者の得意なスタイル・接客で大切にしていること・指名料を見て、その人を指名したまま予約できます（選んだメニューも引き継ぎ）
 3. **空いている時間だけ選べる予約** — 勤務時間・休憩・既存予約・個室スパルームの空きを見て、施術全体が収まる枠だけを表示
 4. **店側の予約管理** — PC はスタッフ別タイムライン、スマホは日付・スタッフ切り替えの一覧。確定／来店済み／キャンセルを変更可能
-5. **モデル写真とヘアカタログ** — 画面いっぱいのモデル写真にロゴを重ねたヒーロー、大小の写真で見せる HAIR CATALOG。カテゴリ（ロング／ボブ・ミディアム／ショート／ヘアアレンジ／ヘアカラー）を選ぶと、そのままスタイル一覧が絞り込まれます
+5. **モデル写真とヘアカタログ** — 画面いっぱいのモデル写真にロゴを重ねたヒーロー、大小の写真で見せる HAIR CATALOG。カテゴリ（ストレート／ウェーブ・カール／レイヤー／ヘアカラー／ヘアアレンジ）を選ぶと、そのままスタイル一覧が絞り込まれます
 
 ## 起動方法
 
